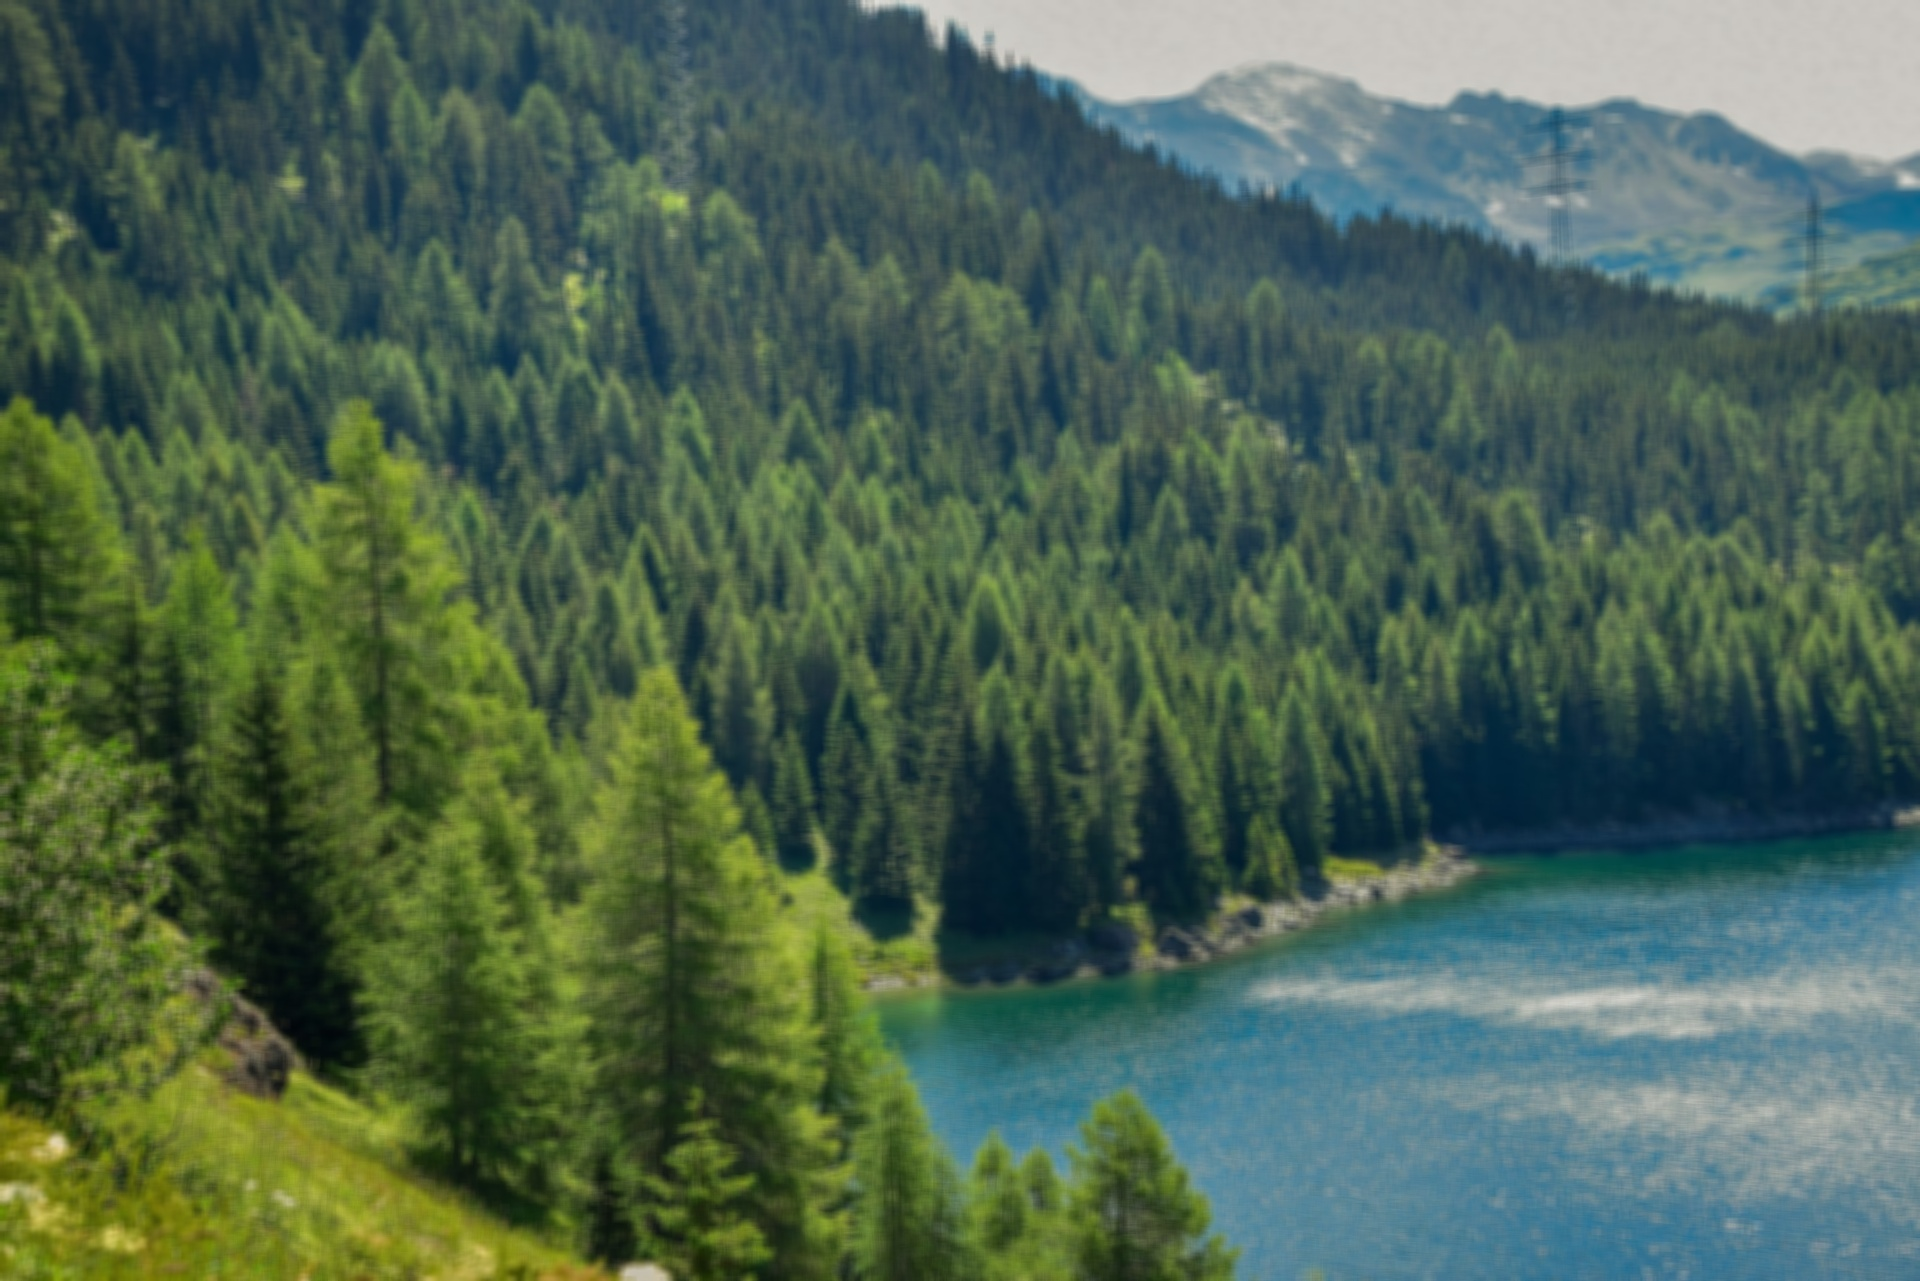
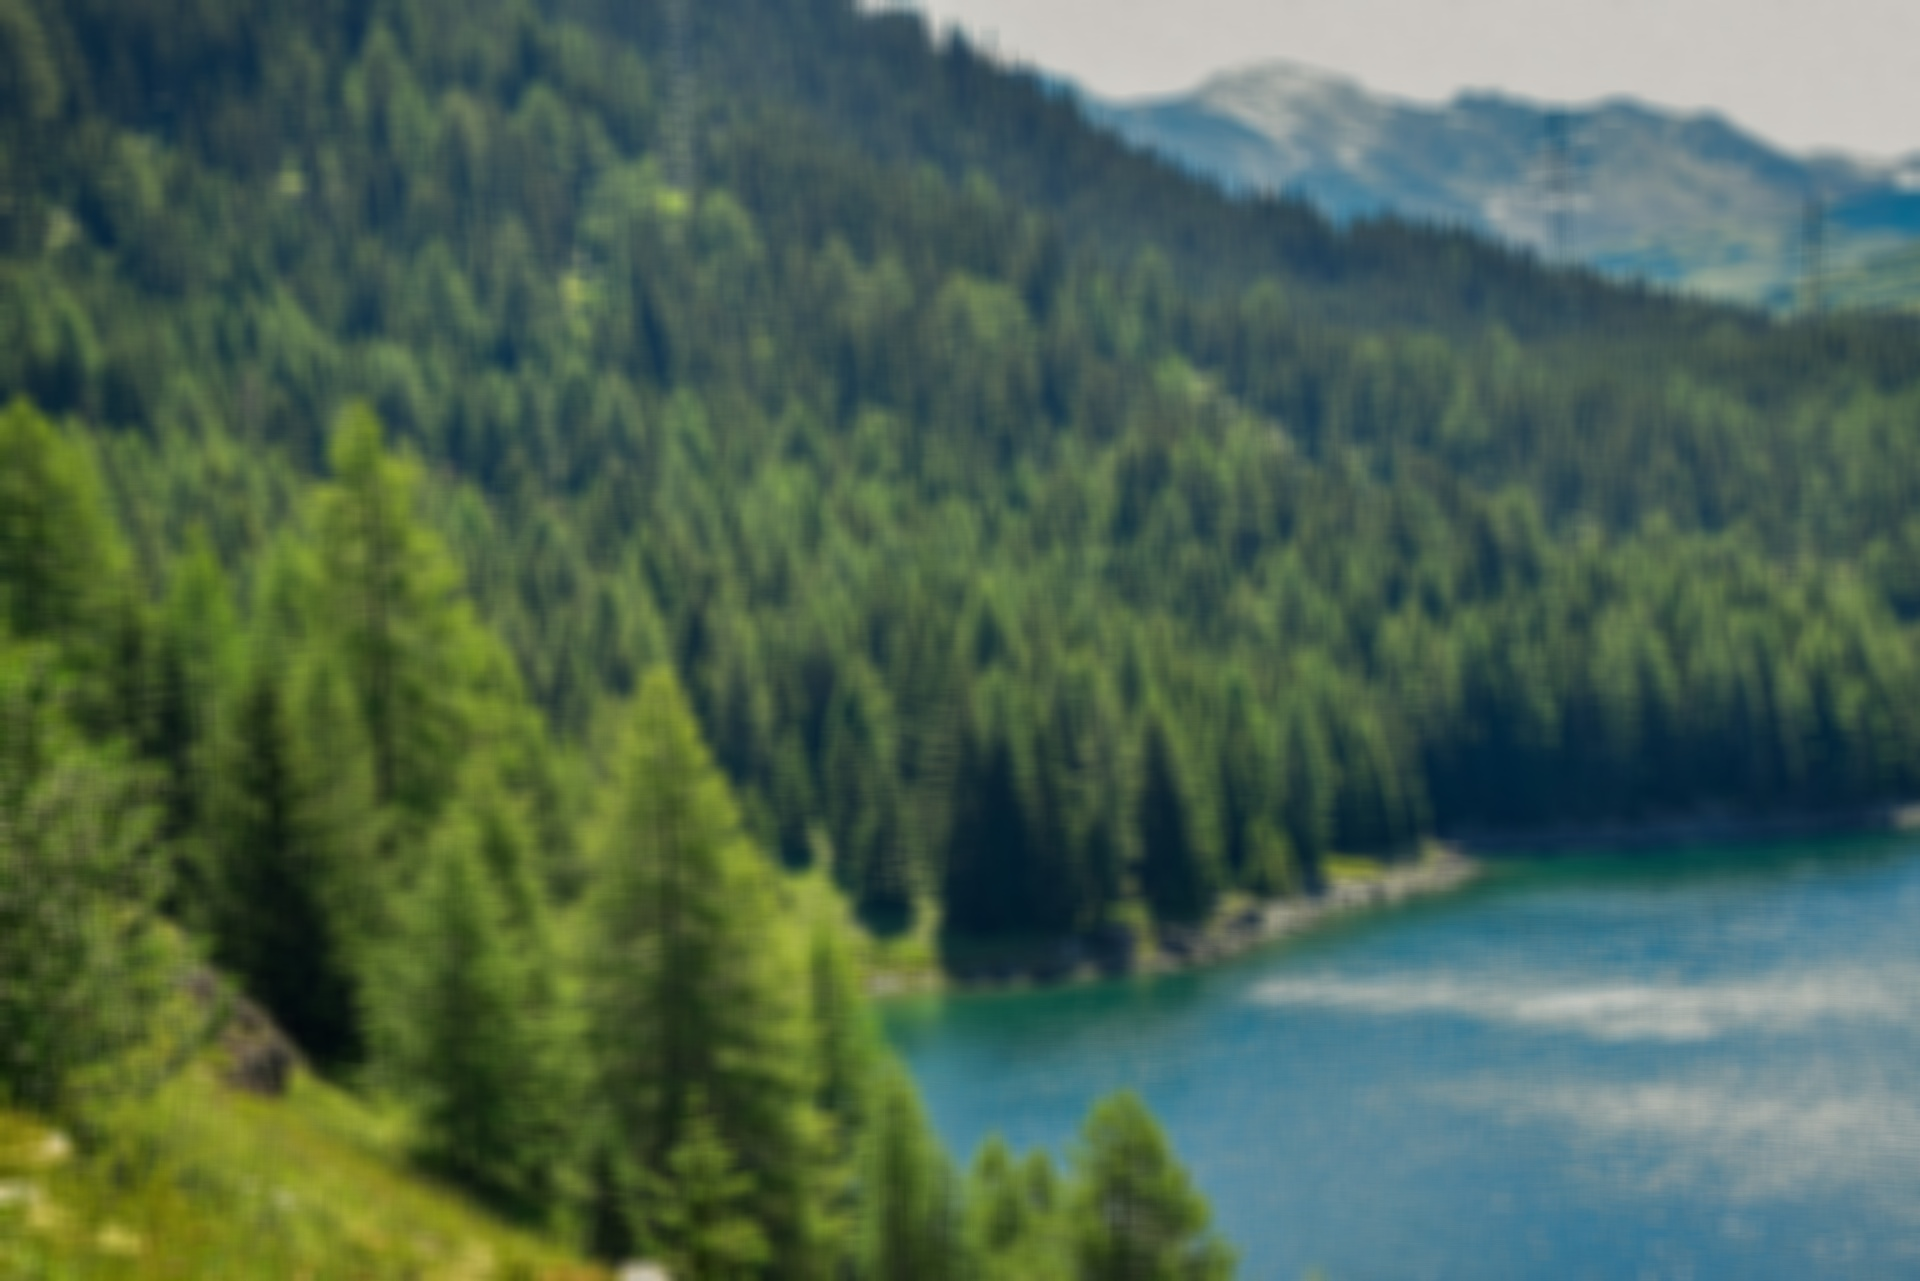
Terminando os algoritmos

diff --git a/main.py b/main.py
@@ -1,21 +1,70 @@
 import cv2 as cv
 import numpy as np
 
-img = cv.imread('./images/imagem1.jpg', 0)
-img2 = cv.imread('./images/imagem2.jpg')
-img3 = cv.imread('./images/imagem3.jpg')
-img4 = cv.imread('./images/imagem4.jpg')
-img5 = cv.imread('./images/imagem5.jpg')
+def getEdge(filename):
+    img = cv.imread(filename, 0)
+    blurred = cv.GaussianBlur(img, (3, 3), 0)
+    wide = cv.Canny(blurred, 10, 200)
+    return wide
 
-blurred = cv.GaussianBlur(img, (3, 3), 0)
-wide = cv.Canny(blurred, 10, 200)
+def imageBlur(filename):
+    img = cv.imread(filename)
+    blurImg = cv.blur(img,(20,20)) 
+    return blurImg
 
-cv.imwrite('result/img1.jpg', wide)
+def removeNoisePeriodic1(filename):
+    img = cv.imread(filename,0)
+    f = np.fft.fft2(img)
+    fshift = np.fft.fftshift(f)
+    col, row = img.shape
+    col = int(col/2)
+    row = int(row/2)
+    fshift[14:20, 118:123] = 0
+    fshift[35:52, 113:128] = 0
+    fshift[90:110, 110:130] = 0
+    fshift[row+90:row+110, 110:130] = 0
+    fshift[row+155:row+170, 113:128] = 0
+    fshift[row+180:row+186, 118:123] = 0
+    f_ishift = np.fft.ifftshift(fshift)
+    img_back = np.fft.ifft2(f_ishift)
+    img_back = np.abs(img_back)
+    return img_back
 
-blurImg = cv.blur(img2,(10,10)) 
+def removeNoisePeriodic2(filename):
+    img = cv.imread(filename,0)
+    f = np.fft.fft2(img)
+    fshift = np.fft.fftshift(f)
+    col, row = fshift.shape
+    col = int(col/2)
+    row = int(row/2)
+    fshift[0:col-20, row-1:row+1] = 0
+    fshift[col+20:col+col, row-1:row+1] = 0
+    fshift[col-100:col+120, row-102:row-98] = 0
+    fshift[col-100:col+120, row+98:row+102] = 0
+    f_ishift = np.fft.ifftshift(fshift)
+    img_back = np.fft.ifft2(f_ishift)
+    img_back = np.abs(img_back)
+    return img_back
 
-cv.imwrite('result/img2.jpg', blurImg)
+def removeNoisePeriodic3(filename):
+    img = cv.imread(filename,0)
+    f = np.fft.fft2(img)
+    fshift = np.fft.fftshift(f)
+    col, row = fshift.shape
+    i = 0
+    while i < row:
+        if(i != row/2):
+            fshift[i][i] = 0
+        i+=16
 
-dst = cv.fastNlMeansDenoisingColored(img,None,10,10,7,21)
+    f_ishift = np.fft.ifftshift(fshift)
+    img_back = np.fft.ifft2(f_ishift)
+    img_back = np.abs(img_back)
+    return img_back
 
-cv.imwrite('result/img3.jpg', dst)
+if __name__ == '__main__':
+    cv.imwrite('./result/img1.jpg', getEdge('./images/imagem1.jpg'))
+    cv.imwrite('./result/img2.jpg', imageBlur('./images/imagem2.jpg'))
+    cv.imwrite('./result/img3.jpg', removeNoisePeriodic1('./images/noise1.png'))
+    cv.imwrite('./result/img4.jpg', removeNoisePeriodic2('./images/noise2.jpg'))
+    cv.imwrite('./result/img5.jpg', removeNoisePeriodic3('./images/noise3.jpg'))
